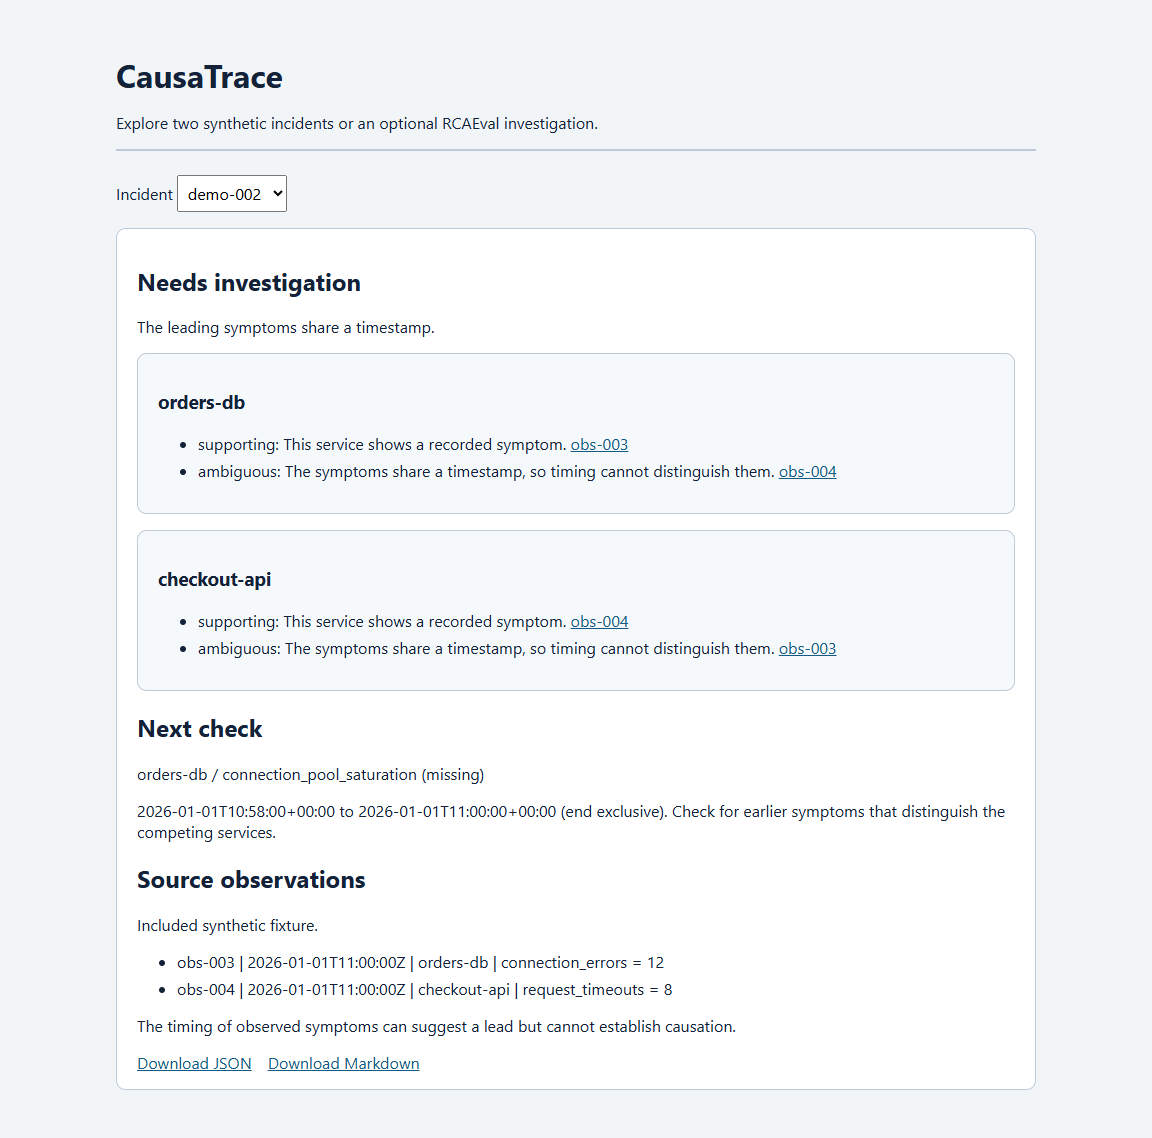
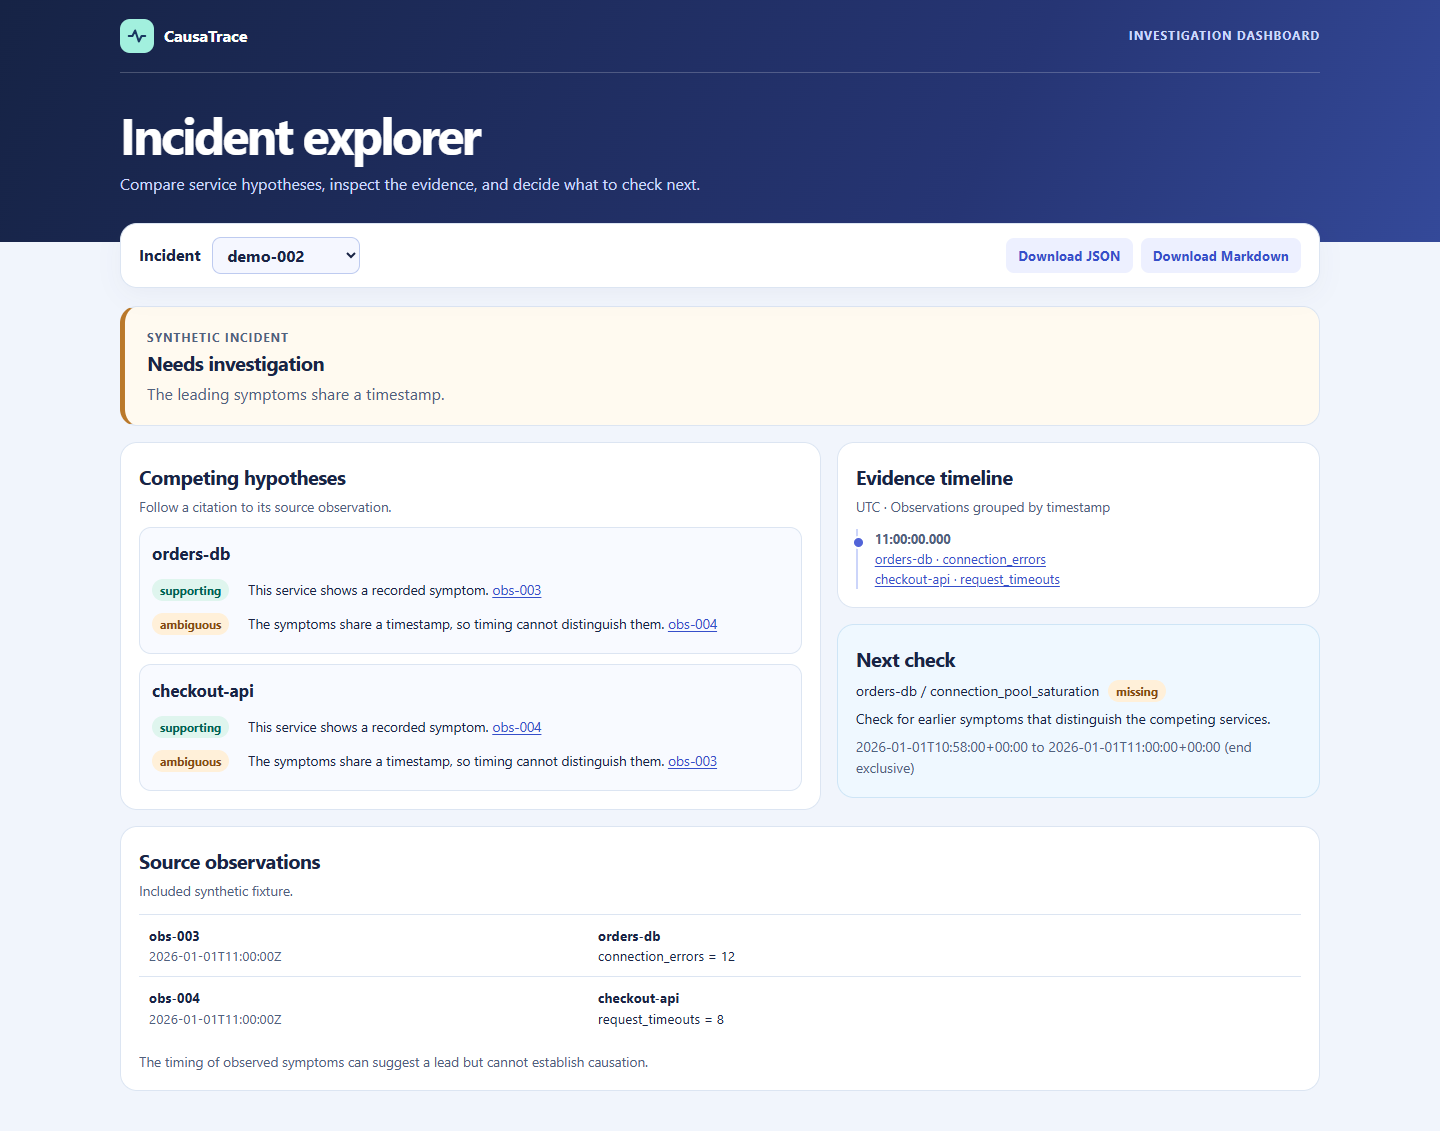
Redesign the dashboard and visualize incident evidence

Changed region(s): [[0.0, 0.0, 1.0, 0.9593], [0.875, 0.5261, 0.9062, 0.557]]

diff --git a/app/index.html b/app/index.html
@@ -1,50 +1,218 @@
 <!doctype html>
 <html lang="en">
+<head>
 <meta charset="utf-8">
 <meta name="viewport" content="width=device-width, initial-scale=1">
 <title>CausaTrace | Incident explorer</title>
 <style>
-:root { color-scheme: light; font: 16px system-ui, sans-serif; color: #132239; background: #f2f5f8; }
-body { max-width: 920px; margin: 0 auto; padding: 2rem 1.25rem; }
-header { border-bottom: 2px solid #bdcbd8; margin-bottom: 1.5rem; }
-h1 { margin-bottom: .25rem; }
-section, article { padding: 1rem 1.25rem; border: 1px solid #bdcbd8; border-radius: .6rem; background: white; margin: 1rem 0; }
-article { background: #f6f9fc; }
-select { font: inherit; padding: .35rem; }
-a { color: #135b87; }
-li { margin: .4rem 0; }
-#observations { overflow-wrap: anywhere; }
-#exports a { margin-right: 1rem; }
+:root {
+  color-scheme: light;
+  --ink: #192445;
+  --muted: #50617d;
+  --surface: #fff;
+  --line: #dce5f2;
+  --blue: #364fca;
+  --mint: #006352;
+  --gold: #854a12;
+  --red: #9b3557;
+  font: 16px/1.55 system-ui, sans-serif;
+  color: var(--ink);
+  background: #f1f5fc;
+}
+* { box-sizing: border-box; }
+body { margin: 0; }
+h1, h2, h3, p { margin: 0; }
+h2 { font-size: 1.25rem; letter-spacing: -.025em; }
+h3 { font-size: 1.05rem; overflow-wrap: anywhere; }
+a { color: var(--blue); text-underline-offset: .18em; }
+:focus-visible { outline: 3px solid #7368ed; outline-offset: 4px; }
+.shell { width: min(1200px, calc(100% - 48px)); margin-inline: auto; }
+.masthead { color: white; background: linear-gradient(115deg, #162345, #263574 68%, #344999); }
+.topbar { display: flex; align-items: center; justify-content: space-between; gap: 12px; padding-block: 19px; border-bottom: 1px solid #ffffff36; }
+.brand { display: flex; align-items: center; gap: 10px; font-weight: 750; }
+.mark { display: grid; place-items: center; width: 34px; height: 34px; border-radius: 10px; background: #a2f0de; color: #183760; }
+.mark svg { width: 22px; height: 22px; }
+.eyebrow { color: var(--muted); font-size: .72rem; font-weight: 750; letter-spacing: .11em; text-transform: uppercase; }
+.masthead .eyebrow, .masthead p { color: #cddafd; }
+.hero { padding-block: 28px 45px; }
+.hero h1 { font-size: clamp(2rem, 5vw, 3.15rem); line-height: 1.08; letter-spacing: -.055em; margin: 7px 0 10px; }
+main { padding-bottom: 40px; }
+.toolbar, .panel, .status-panel { background: var(--surface); border: 1px solid var(--line); border-radius: 17px; }
+.toolbar { position: relative; margin-top: -19px; padding: 13px 18px; display: flex; justify-content: space-between; align-items: center; gap: 12px; flex-wrap: wrap; box-shadow: 0 7px 24px #28395b0b; }
+.field { display: flex; gap: 12px; align-items: center; font-weight: 700; }
+select { font: inherit; color: var(--ink); background: #f5f7ff; border: 1px solid #becbf0; border-radius: 9px; padding: 6px 32px 6px 10px; }
+#exports { display: flex; gap: 8px; flex-wrap: wrap; }
+.button { background: #edf0ff; padding: 7px 12px; border-radius: 8px; font-size: .84rem; font-weight: 700; text-decoration: none; }
+.button:hover { background: #e0e6ff; }
+#message:not(:empty) { margin-top: 16px; color: var(--muted); }
+.status-panel { margin-top: 18px; padding: 18px 22px; border-left: 5px solid #ba792b; background: #fffaf0; }
+.status-panel[data-leading="true"] { border-left-color: #008878; background: #edf9f5; }
+.status-panel p { color: var(--muted); margin-top: 4px; }
+.workspace { display: grid; grid-template-columns: minmax(0, 1.45fr) minmax(0, 1fr); gap: 16px; margin-top: 16px; align-items: start; }
+.panel { padding: 18px; min-width: 0; }
+.panel + .panel { margin-top: 16px; }
+.section-caption { color: var(--muted); font-size: .85rem; margin-top: 4px; }
+.candidate { border: 1px solid var(--line); border-radius: 12px; margin-top: 10px; padding: 12px; background: #f8faff; }
+.evidence-list { list-style: none; padding: 0; margin: 7px 0 0; }
+.evidence-list li { display: grid; grid-template-columns: minmax(88px, auto) minmax(0, 1fr); align-items: start; gap: 8px; padding-block: 6px; font-size: .85rem; overflow-wrap: anywhere; }
+.tag { border-radius: 99px; padding: 2px 8px; font-size: .73rem; font-weight: 750; background: #edf0ff; color: #394aad; width: fit-content; }
+.tag[data-kind="supporting"], .tag[data-kind="available"] { background: #dff5ee; color: var(--mint); }
+.tag[data-kind="contradicting"] { background: #fce8ef; color: var(--red); }
+.tag[data-kind="ambiguous"], .tag[data-kind="missing"] { background: #fff0d9; color: var(--gold); }
+.timeline { margin: 12px 0 0; padding: 0 0 0 13px; list-style: none; border-left: 2px solid #ccd5fa; }
+.timeline li { position: relative; padding: 0 0 9px 4px; }
+.timeline li:last-child { padding-bottom: 0; }
+.timeline li::before { content: ""; position: absolute; left: -19px; top: 7px; width: 9px; height: 9px; border-radius: 50%; background: #5264d8; border: 2px solid white; }
+.timeline time { display: block; font-size: .79rem; font-weight: 700; color: var(--muted); font-variant-numeric: tabular-nums; }
+.timeline a { display: block; font-size: .82rem; overflow-wrap: anywhere; }
+.bar-label { display: flex; justify-content: space-between; flex-wrap: wrap; gap: 4px; margin-top: 10px; font-size: .81rem; }
+.bar-track { height: 9px; border-radius: 8px; background: #e8edfa; overflow: hidden; margin-top: 3px; }
+.bar-fill { display: block; height: 100%; background: #6175df; border-radius: inherit; }
+.bar-fill.after { background: #0b937e; }
+#next { background: #eff8ff; border-color: #cee5f6; overflow-wrap: anywhere; }
+#next p { margin-top: 6px; font-size: .87rem; }
+#next .tag { display: inline-block; margin-left: 5px; }
+.ledger { margin-top: 16px; }
+#source, #limitations { overflow-wrap: anywhere; }
+#observations { padding: 0; margin: 12px 0; list-style: none; }
+#observations li { display: grid; grid-template-columns: minmax(0, 1fr) minmax(0, 1.6fr); gap: 5px 16px; padding: 10px; border-top: 1px solid var(--line); overflow-wrap: anywhere; scroll-margin-top: 16px; font-size: .84rem; }
+#observations li:target, #observations li:focus { background: #eef0ff; border-radius: 6px; }
+#observations time, #observations small { color: var(--muted); display: block; }
+@media (max-width: 760px) {
+  .shell { width: calc(100% - 28px); }
+  .workspace { grid-template-columns: minmax(0, 1fr); }
+  .hero { padding-top: 22px; }
+}
+@media (max-width: 440px) {
+  #observations li, .evidence-list li { grid-template-columns: minmax(0, 1fr); }
+  .topbar .eyebrow { display: none; }
+}
 </style>
-<header>
-  <h1>CausaTrace</h1>
-  <p>Explore two synthetic incidents or an optional RCAEval investigation.</p>
+</head>
+<body>
+<header class="masthead">
+  <div class="shell">
+    <div class="topbar">
+      <div class="brand"><span class="mark" aria-hidden="true"><svg viewBox="0 0 24 24" fill="none" stroke="currentColor" stroke-width="2.2" stroke-linecap="round" stroke-linejoin="round"><path d="M3 12h4l3-6 4 12 3-6h4"/></svg></span>CausaTrace</div>
+      <span class="eyebrow">Investigation dashboard</span>
+    </div>
+    <div class="hero">
+      <h1>Incident explorer</h1>
+      <p>Compare service hypotheses, inspect the evidence, and decide what to check next.</p>
+    </div>
+  </div>
 </header>
-<main>
-  <label for="incident">Incident</label>
-  <select id="incident"></select>
-  <p id="message" role="status"></p>
-  <section id="investigation" hidden>
-    <h2 id="status"></h2>
-    <p id="reason"></p>
-    <div id="hypotheses"></div>
-    <div id="next"></div>
-    <h2>Source observations</h2>
-    <p id="source"></p>
-    <ul id="observations"></ul>
-    <p id="limitations"></p>
+<main class="shell">
+  <div class="toolbar">
+    <div class="field"><label for="incident">Incident</label><select id="incident"></select></div>
     <div id="exports"></div>
-  </section>
+  </div>
+  <p id="message" role="status"></p>
+  <div id="investigation" hidden>
+    <section class="status-panel" id="assessment" aria-labelledby="status">
+      <p class="eyebrow" id="case-type"></p>
+      <h2 id="status"></h2>
+      <p id="reason"></p>
+    </section>
+    <div class="workspace">
+      <section class="panel" aria-labelledby="candidates-heading">
+        <h2 id="candidates-heading">Competing hypotheses</h2>
+        <p class="section-caption">Follow a citation to its source observation.</p>
+        <div id="hypotheses"></div>
+      </section>
+      <div>
+        <section class="panel" aria-labelledby="timeline-heading">
+          <h2 id="timeline-heading">Evidence timeline</h2>
+          <p class="section-caption">UTC · Observations grouped by timestamp</p>
+          <ol class="timeline" id="timeline"></ol>
+        </section>
+        <section class="panel" id="duration" hidden aria-labelledby="duration-heading">
+          <h2 id="duration-heading">Call duration</h2>
+          <p class="section-caption">Median span duration in dataset units · Shared scale</p>
+          <div id="duration-chart"></div>
+        </section>
+        <section class="panel" id="next" hidden></section>
+      </div>
+    </div>
+    <section class="panel ledger" aria-labelledby="source-heading">
+      <h2 id="source-heading">Source observations</h2>
+      <p class="section-caption" id="source"></p>
+      <ul id="observations"></ul>
+      <p class="section-caption" id="limitations"></p>
+    </section>
+  </div>
 </main>
 <script>
 const byId = id => document.getElementById(id);
 const selector = byId("incident");
+const timeFormat = new Intl.DateTimeFormat("en-GB", {
+  timeZone: "UTC", hour: "2-digit", minute: "2-digit", second: "2-digit", fractionalSecondDigits: 3,
+});
 let request = 0;
 
-function node(tag, text) {
+function node(tag, text, className) {
   const element = document.createElement(tag);
   element.textContent = text;
+  if (className) element.className = className;
   return element;
+}
+
+function tag(label) {
+  const badge = node("span", label, "tag");
+  badge.dataset.kind = label;
+  return badge;
+}
+
+function citation(id, label = id) {
+  const link = node("a", label);
+  link.href = "#source-" + encodeURIComponent(id);
+  return link;
+}
+
+function showTimeline(observations) {
+  const groups = new Map();
+  for (const item of observations) {
+    const timestamp = Date.parse(item.timestamp);
+    if (!groups.has(timestamp)) groups.set(timestamp, []);
+    groups.get(timestamp).push(item);
+  }
+  const rows = Array.from(groups).sort(([a], [b]) => a - b).map(([timestamp, items]) => {
+    const row = node("li", "");
+    const time = node("time", timeFormat.format(timestamp));
+    time.dateTime = items[0].timestamp;
+    row.append(time);
+    for (const item of items) {
+      row.append(citation(item.id, item.service + " · " + item.signal));
+    }
+    return row;
+  });
+  byId("timeline").replaceChildren(...rows);
+}
+
+function showDurations(observations) {
+  const charts = observations.filter(item => item.duration_comparison).map(item => {
+    const comparison = item.duration_comparison;
+    const max = Math.max(comparison.before.median || 0, comparison.after.median || 0, 1);
+    const chart = node("div", "");
+    const path = node("p", item.value + " → " + item.service + " · ", "section-caption");
+    path.append(citation(item.id));
+    chart.append(path);
+    for (const label of ["before", "after"]) {
+      const {median, spans} = comparison[label];
+      const row = node("div", "", "bar-label");
+      row.append(node("span", (label === "before" ? "Before alert" : "After alert") + " · " + spans + " spans"),
+        node("strong", median === null ? "Unavailable" : median.toLocaleString("en-US")));
+      const track = node("div", "", "bar-track");
+      track.setAttribute("aria-hidden", "true");
+      const fill = node("span", "", "bar-fill " + label);
+      fill.style.width = (median === null ? 0 : 100 * median / max) + "%";
+      track.append(fill);
+      chart.append(row, track);
+    }
+    return chart;
+  });
+  byId("duration-chart").replaceChildren(...charts);
+  byId("duration").hidden = charts.length === 0;
 }
 
 async function get(path) {
@@ -58,32 +226,47 @@ async function render() {
   const path = "/api/incidents/" + encodeURIComponent(selector.value);
   byId("message").textContent = "Loading incident";
   byId("investigation").hidden = true;
+  byId("exports").replaceChildren();
+  history.replaceState(null, "", location.pathname + location.search);
   try {
     const report = await get(path);
     if (version !== request) return;
-    byId("status").textContent = report.status === "LEADING_HYPOTHESIS"
-      ? "Leading hypothesis" : "Needs investigation";
+    const leading = report.status === "LEADING_HYPOTHESIS";
+    byId("assessment").dataset.leading = leading;
+    byId("status").textContent = leading ? "Leading hypothesis" : "Needs investigation";
     byId("reason").textContent = report.reason;
+    byId("case-type").textContent = report.synthetic ? "Synthetic incident" : "Benchmark incident";
 
     const source = report.source;
     byId("source").textContent = source
       ? [source.dataset, source.case, source.file, source.revision].join(" | ")
       : "Included synthetic fixture.";
     const observations = report.observations.map(item => {
-      const row = node("li", `${item.id} | ${item.timestamp} | ${item.service} | ${item.signal} = ${item.value}${item.file ? " | " + item.file : ""}`);
+      const row = node("li", "");
       row.id = "source-" + item.id;
+      row.tabIndex = -1;
+      const origin = node("div", "");
+      const time = node("time", item.timestamp);
+      time.dateTime = item.timestamp;
+      origin.append(node("strong", item.id), time);
+      const detail = node("div", "");
+      detail.append(node("strong", item.service), node("div", item.signal + " = " + item.value));
+      if (item.file) detail.append(node("small", item.file));
+      row.append(origin, detail);
       return row;
     });
     byId("observations").replaceChildren(...observations);
+    showTimeline(report.observations);
+    showDurations(report.observations);
 
     const hypotheses = report.hypotheses.map(hypothesis => {
-      const card = node("article", "");
-      const list = node("ul", "");
+      const card = node("article", "", "candidate");
+      const list = node("ul", "", "evidence-list");
       for (const evidence of hypothesis.evidence) {
-        const row = node("li", `${evidence.relation}: ${evidence.reason} `);
-        const link = node("a", evidence.observation_id);
-        link.href = "#source-" + evidence.observation_id;
-        row.append(link);
+        const row = node("li", "");
+        const description = node("span", evidence.reason + " ");
+        description.append(citation(evidence.observation_id));
+        row.append(tag(evidence.relation), description);
         list.append(row);
       }
       card.append(node("h3", hypothesis.service), list);
@@ -92,15 +275,17 @@ async function render() {
     byId("hypotheses").replaceChildren(...hypotheses);
 
     const check = report.next_check;
-    byId("next").replaceChildren(...(check ? [
-      node("h2", "Next check"),
-      node("p", `${check.service} / ${check.signal} (${check.availability})`),
-      node("p", `${check.start} to ${check.end_exclusive} (end exclusive). ${check.purpose}`)
-    ] : []));
+    byId("next").hidden = !check;
+    if (check) {
+      const signal = node("p", check.service + " / " + check.signal + " ");
+      signal.append(tag(check.availability));
+      byId("next").replaceChildren(node("h2", "Next check"), signal,
+        node("p", check.purpose), node("p", check.start + " to " + check.end_exclusive + " (end exclusive)", "section-caption"));
+    }
     byId("limitations").textContent = report.limitations.join(" ");
     const exports = [["Download JSON", path, ".json"], ["Download Markdown", path + ".md", ".md"]];
     byId("exports").replaceChildren(...exports.map(([label, href, suffix]) => {
-      const link = node("a", label);
+      const link = node("a", label, "button");
       link.href = href;
       link.download = report.incident_id + suffix;
       return link;
@@ -118,4 +303,5 @@ get("/api/incidents").then(({ incidents }) => {
   render();
 }).catch(error => { byId("message").textContent = error.message; });
 </script>
+</body>
 </html>

diff --git a/scripts/train_ticket.py b/scripts/train_ticket.py
@@ -25,7 +25,7 @@ def utc(seconds: float) -> str:
     return datetime.fromtimestamp(seconds, timezone.utc).isoformat()
 
 
-def compare_call_path(span_rows, parents, span, parent, alert_ms: int) -> str:
+def compare_call_path(span_rows, parents, span, parent, alert_ms: int) -> tuple[str, dict]:
     """Compare spans on the cited edge and operation in the two sampled windows."""
     before = []
     after = []
@@ -39,15 +39,19 @@ def compare_call_path(span_rows, parents, span, parent, alert_ms: int) -> str:
         window.append(row)
 
     summaries = []
+    comparison = {}
     for label, window in (("before", before), ("after", after)):
         durations = [row["duration"] for row in window if row["duration"] is not None]
         recorded = sum(row["statusCode"] is not None for row in window)
-        timing = f"median raw duration {median(durations):g}" if durations else "duration unavailable"
+        duration = median(durations) if durations else None
+        comparison[label] = {"median": duration, "spans": len(window)}
+        timing = f"median raw duration {duration:g}" if duration is not None else "duration unavailable"
         summaries.append(f"{len(window)} spans {label} the alert, {timing}, {recorded} with status codes")
     return (
         f"Matched {parent['serviceName']} to {span['serviceName']} on {span['operationName']}. "
         + ". ".join(summaries)
-        + ". The comparison describes this call path and leaves the origin uncertain."
+        + ". The comparison describes this call path and leaves the origin uncertain.",
+        comparison,
     )
 
 
@@ -112,16 +116,18 @@ def load_report(cache: Path = CACHE) -> dict:
             parent = parents.get((span["traceID"], span["parentSpanID"]))
             if parent is None or parent["serviceName"] == service:
                 continue
+            reason, comparison = compare_call_path(span_rows, parents, span, parent, alert * 1000)
             observations.append({
                 "id": f"span:{index}", "row_index": index, "file": "traces.parquet",
                 "service": service, "signal": "parent service", "value": parent["serviceName"],
                 "timestamp": utc(span["startTimeMillis"] / 1000),
                 "trace_id": span["traceID"], "span_id": span["spanID"],
                 "parent_span_id": span["parentSpanID"],
+                "duration_comparison": comparison,
             })
             evidence.append({
                 "observation_id": f"span:{index}", "relation": "ambiguous",
-                "reason": compare_call_path(span_rows, parents, span, parent, alert * 1000),
+                "reason": reason,
             })
             break
         hypotheses.append({"service": service, "evidence": evidence})
